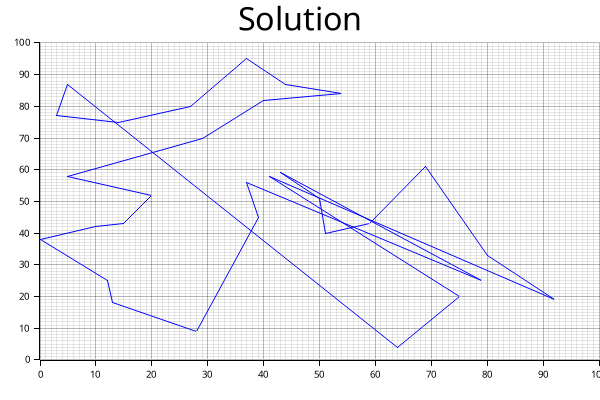
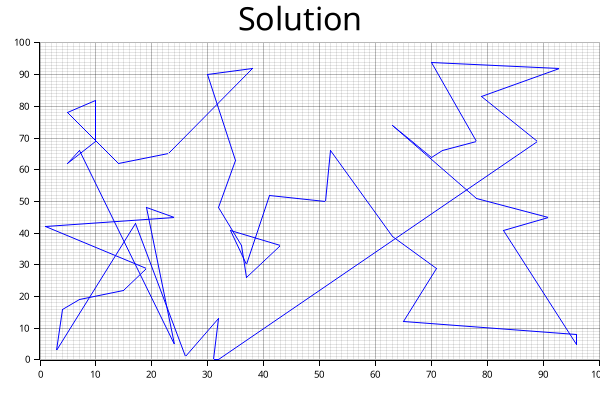
working on realtime plotting

diff --git a/src/genetic_algorithm.rs b/src/genetic_algorithm.rs
@@ -1,5 +1,6 @@
 use std::collections::{HashSet, HashMap};
 use rand::thread_rng;
+use plotters::prelude::*;
 use rand::seq::SliceRandom;
 use rand::prelude::*;
 use rand_distr::WeightedAliasIndex;
@@ -68,7 +69,8 @@ pub struct GaData {
     population: Vec<Candidate>,
     mutation_rate: f32,
     truncation: u32,
-    rng: ThreadRng
+    rng: ThreadRng,
+    active_plotting: bool
 }
 
 impl GaData {
@@ -83,7 +85,8 @@ impl GaData {
             population: Vec::new(),
             mutation_rate,
             truncation,
-            rng
+            rng,
+            active_plotting: false
         }
     }
 
@@ -96,8 +99,13 @@ impl GaData {
         &self.all_time_best
     }
 
+
     pub fn prepare_graph_data(&mut self) {
         self.all_time_best.chromozones.push(self.all_time_best.chromozones[0]);
+    }
+
+    pub fn set_active_plotting(&mut self, plotting: bool) {
+        self.active_plotting = plotting;
     }
 
     pub fn quick_sort(&mut self, low: isize, high: isize) {
@@ -327,6 +335,17 @@ impl GaData {
 
     pub fn run(&mut self, iteration_limit: u32) {
         self.populate();
+
+        let mut root = BitMapBackend::new("plot.png", (800, 600)).into_drawing_area();
+        root.fill(&WHITE).unwrap();
+
+
+        let mut chart = ChartBuilder::on(&root)
+            .x_label_area_size(40)
+            .y_label_area_size(40)
+            .build_cartesian_2d(0.0..100.0, -1.5..1.5)
+            .unwrap();
+
         println!("Initial Fitness:\t{}",self.all_time_best.fitness());
         for i in 0..iteration_limit {
             self.iteration = i;
@@ -338,6 +357,20 @@ impl GaData {
                 self.population[self.population_count as usize - 1].fitness(), 
                 self.all_time_best.fitness()
             );
+
+            if self.active_plotting {
+                chart.plotting_area().fill(&WHITE).unwrap();
+                let mut current_plotting_data: Vec<(u32,u32)> = self.current_best.chromozones.iter().map(|x| self.cities[*x]).collect();
+                let mut best_plotting_data: Vec<(u32,u32)> = self.all_time_best.chromozones.iter().map(|x| self.cities[*x]).collect();
+                current_plotting_data.push(self.cities[self.current_best.chromozones[0]]);
+                best_plotting_data.push(self.cities[self.all_time_best.chromozones[0]]);
+                chart.draw_series(LineSeries::new(
+                    best_plotting_data.iter().map(|&(x,y)| (x as f64, y as f64)),
+                    &RED
+                ))
+                .unwrap();
+                root.present().unwrap();
+            }
 
             if self.population[self.population_count as usize - 1].fitness() > self.all_time_best.fitness() {
                 self.all_time_best = self.population[self.population_count as usize - 1].clone();

diff --git a/src/main.rs b/src/main.rs
@@ -1,11 +1,9 @@
 use std::{env, collections};
 use std::fs::File;
 use std::io::{BufWriter, BufReader, Write, Error, BufRead};
-use std::collections::HashSet;
 use rand::Rng;
 use getopts::Options;
 use colored::Colorize;
-use plotters::prelude::*;
 
 mod genetic_algorithm;
 
@@ -65,28 +63,19 @@ fn main() {
         0.5,
         30
     );
+
+    ga.set_active_plotting(true);
     ga.run(130);
 
-    let root_area = BitMapBackend::new("./res.png", (600, 400))
-        .into_drawing_area();
-    root_area.fill(&WHITE).unwrap();
-
-    let mut ctx = ChartBuilder::on(&root_area)
-        .set_label_area_size(LabelAreaPosition::Left, 40)
-        .set_label_area_size(LabelAreaPosition::Bottom, 40)
-        .caption("Solution", ("sans-serif", 40))
-        .build_cartesian_2d(0..100, 0..100)
-        .unwrap();
-
-    ctx.configure_mesh().draw().unwrap();
+    
     
     ga.prepare_graph_data();
 
-    ctx.draw_series(LineSeries::new(
-        ga.get_all_time_best().chromozones.iter().map(|x| ga.get_city(*x)),
-        &BLUE,
-    ))
-    .unwrap();
+    // ctx.draw_series(LineSeries::new(
+    //     ga.get_all_time_best().chromozones.iter().map(|x| ga.get_city(*x)),
+    //     &BLUE,
+    // ))
+    // .unwrap();
 
     
 }
